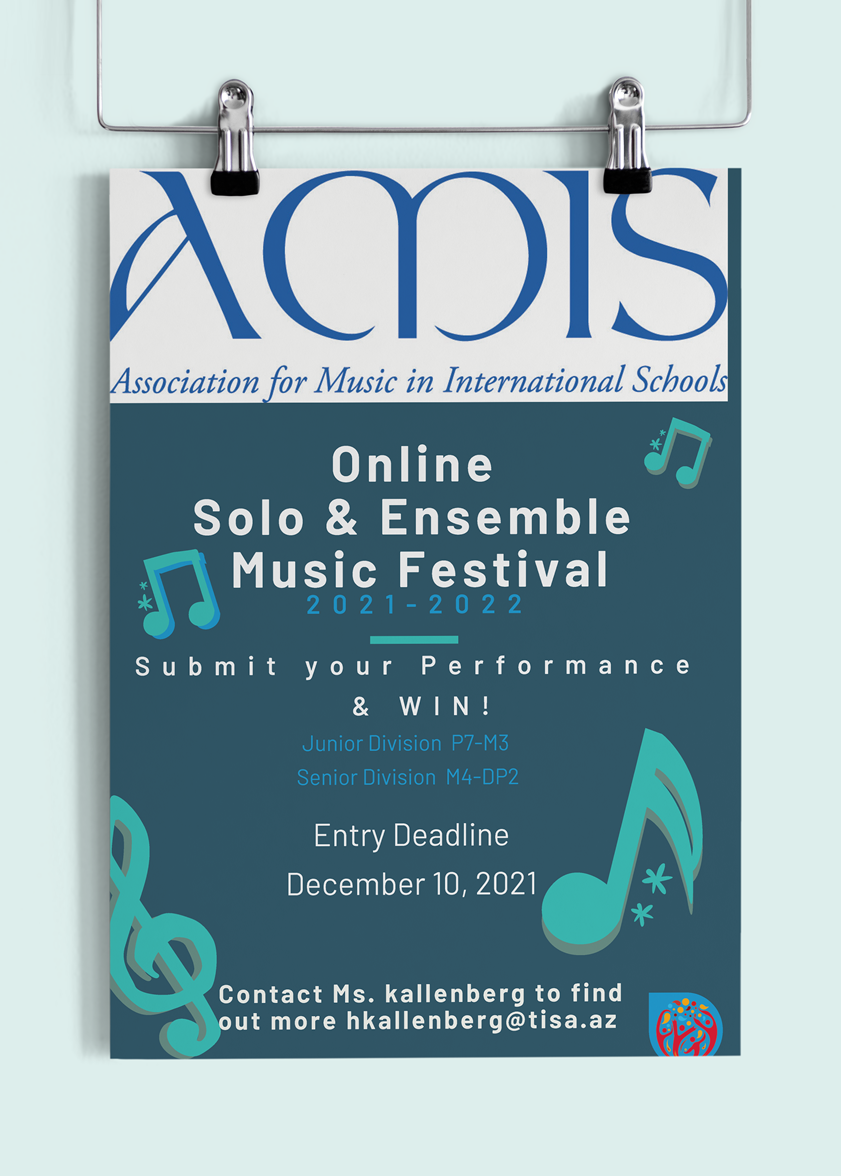
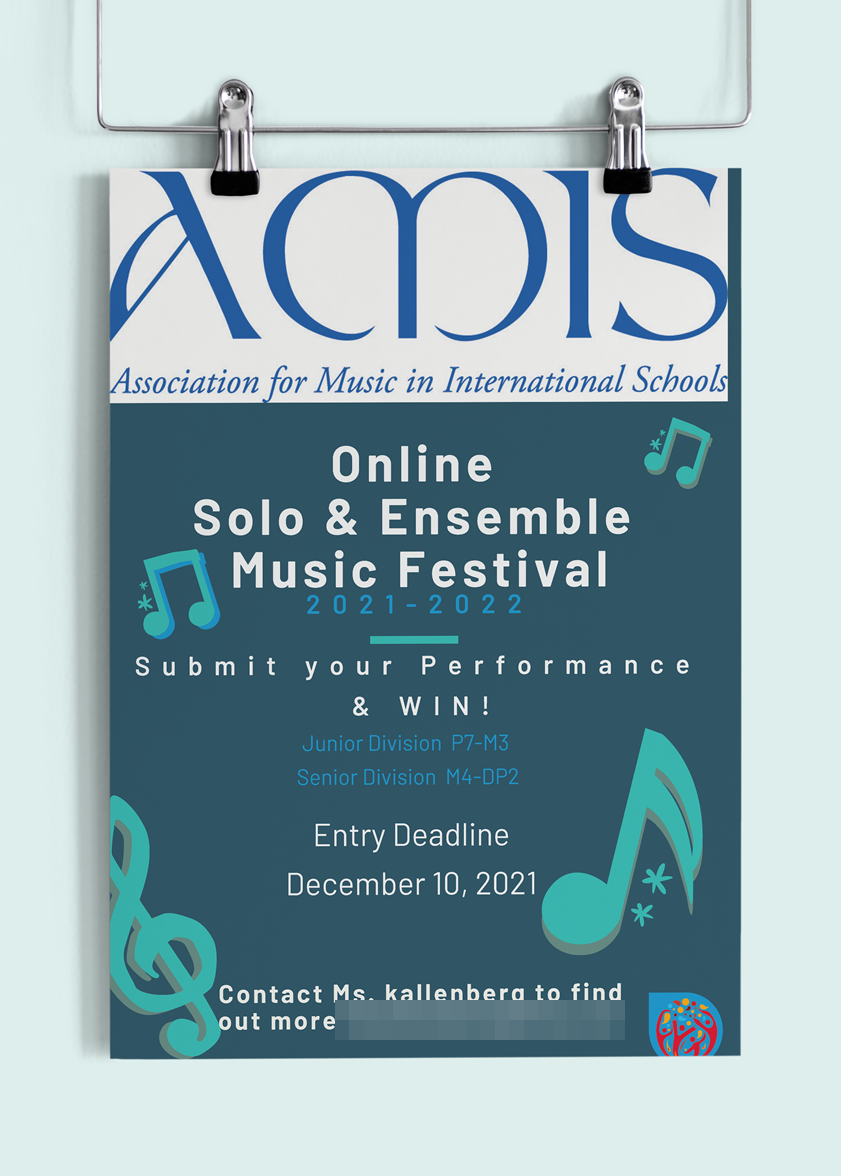
Email Campaigns: work-first previews for ARTİ and NARGIS, cover staff emails in TISA images
- Preview renders load eagerly, so the email shows on arrival instead of an empty window
- Wider preview column and taller window; tighter vertical rhythm in chapters 03 and 04
- Phones open on the mobile render, preview before text, long copy clamped
- Fix flipped issue layout and single-column breakpoint
- TISA: blur two staff email addresses printed inside images (contact update, AMIS poster)

Claude-Session: https://claude.ai/code/session_018xC3eZ1TY9SCwfX4zXQuxc

Changed region(s): [[0.4019, 0.8265, 0.742, 0.8878]]

diff --git a/email-campaigns.html b/email-campaigns.html
@@ -628,7 +628,7 @@
         </div>
       </div>
       <div class="ev__win" data-ev-win tabindex="0" aria-label="Scrollable preview of the email">
-        <img data-ev-img src="assets/case-email/arti/jun-2022/shots/desktop_full.webp" alt="ARTİ June 2022 email, full length, desktop width" width="680" height="3778" loading="lazy" decoding="async">
+        <img data-ev-img src="assets/case-email/arti/jun-2022/shots/desktop_full.webp" alt="ARTİ June 2022 email, full length, desktop width" width="680" height="3778" decoding="async">
       </div>
       <p class="ev__hint">Scroll inside the window to read the whole email.</p>
     </div>
@@ -665,7 +665,7 @@
         </div>
       </div>
       <div class="ev__win" data-ev-win tabindex="0" aria-label="Scrollable preview of the email">
-        <img data-ev-img src="assets/case-email/arti/nov-2022/shots/desktop_full.webp" alt="ARTİ November 2022 email, full length, desktop width" width="680" height="4791" loading="lazy" decoding="async">
+        <img data-ev-img src="assets/case-email/arti/nov-2022/shots/desktop_full.webp" alt="ARTİ November 2022 email, full length, desktop width" width="680" height="4791" decoding="async">
       </div>
       <p class="ev__hint">Scroll inside the window to read the whole email.</p>
     </div>
@@ -741,7 +741,7 @@
         </div>
       </div>
       <div class="ev__win" data-ev-win tabindex="0" aria-label="Scrollable preview of the email">
-        <img data-ev-img src="assets/case-email/nargis/shots/desktop_full.webp" alt="NARGIS The Edit email concept, full length, desktop width" width="680" height="5738" loading="lazy" decoding="async">
+        <img data-ev-img src="assets/case-email/nargis/shots/desktop_full.webp" alt="NARGIS The Edit email concept, full length, desktop width" width="680" height="5738" decoding="async">
       </div>
       <p class="ev__hint">Scroll inside the window to read the whole email.</p>
     </div>

diff --git a/assets/email-campaigns.css b/assets/email-campaigns.css
@@ -468,3 +468,32 @@ html{scroll-padding-top:72px}
 .evx.is-m .evx__img{width:375px}
 .evx__end{text-align:center;font-size:14px;color:var(--ink-3);margin-top:28px}
 @media (max-width:560px){.evx__bar .rbtn span{display:none}.evx__t{font-size:13px}}
+
+/* ---------- ARTİ + NARGIS · work first ----------
+   Tighter rhythm, a wider preview column and a taller window, so the emails read at a glance. */
+.ec-chap--ev{padding:clamp(64px,7vw,104px) 0 clamp(16px,2vw,32px)}
+.ev-sec{padding-top:clamp(40px,5vw,72px)}
+.ev-ch{padding-bottom:clamp(24px,3vw,48px)}
+.ev-ch--ng{margin-top:clamp(48px,5vw,80px);padding-bottom:clamp(56px,6vw,96px)}
+.ev-sys{padding-top:clamp(56px,6vw,96px)}
+.ev{grid-template-columns:minmax(0,.62fr) minmax(0,1.38fr);gap:clamp(28px,4vw,64px)}
+.ev--flip{grid-template-columns:minmax(0,1.38fr) minmax(0,.62fr)}
+.ev__win{height:clamp(640px,86vh,1000px)}
+.ev__win img{width:min(760px,calc(100% - 48px));max-width:none}
+.ev__win.is-m img{width:375px;max-width:calc(100% - 32px)}
+@media (max-width:980px){
+  .ev,.ev--flip{grid-template-columns:minmax(0,1fr)}
+  .ev__view{order:-1}
+  .ev--flip .ev__text{order:1}
+  .ev__win{height:min(80vh,820px)}
+}
+@media (max-width:600px){
+  .ec-chap--ev .ec-meta,.ev__facts,.ev__hint,.ev-sys__grid>div:nth-child(3){display:none}
+  .ec-chap--ev .ec-chap__p,.ev__p{display:-webkit-box;-webkit-line-clamp:3;-webkit-box-orient:vertical;overflow:hidden}
+  .ec-chap--ev .ec-chap__p{margin-top:18px}
+  .ev__win img{width:calc(100% - 24px)}
+  .ev__win{padding:12px 0}
+  .ev__win.is-m{padding-top:20px}
+  .ev__tags{margin-top:16px}
+  .ev__src{margin-top:20px}
+}

diff --git a/assets/email-campaigns.js b/assets/email-campaigns.js
@@ -427,6 +427,8 @@
         press(btns, "data-ev-mode", mode);
       });
     });
+    /* on a phone, open on the mobile render: it is the readable one at that width */
+    if (win.matchMedia("(max-width: 600px)").matches) btns.filter(function (b) { return b.dataset.evMode === "m"; })[0].click();
     $("[data-ev-full]", v).addEventListener("click", function (e) {
       evxCur = v; evxBack = e.currentTarget;
       $("[data-evx-t]").textContent = v.dataset.evName;
